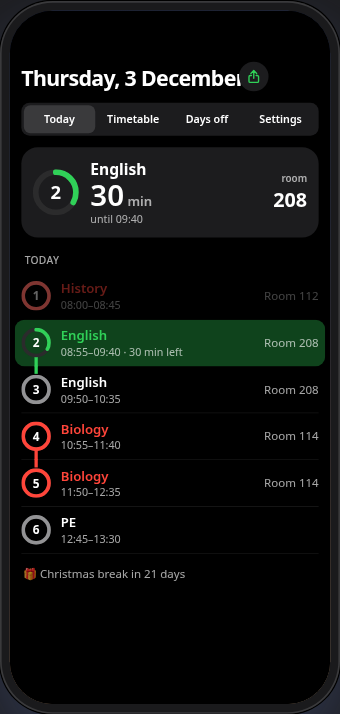
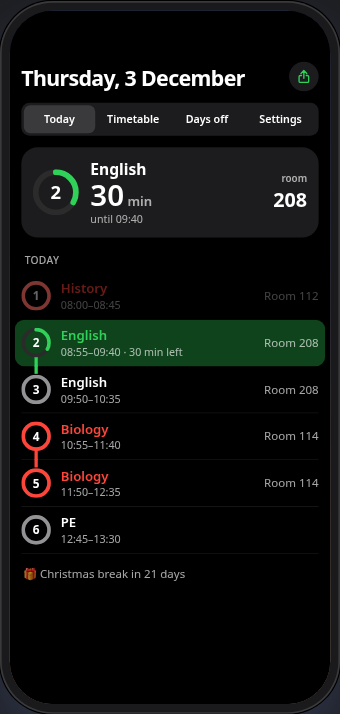
Landing page: the menu demo's date no longer runs under the share button (the page's h2 width limit)

Changed region(s): [[0.8529, 0.0616, 0.9412, 0.1541], [0.7059, 0.0616, 0.7941, 0.1541]]

diff --git a/landing/widgets.css b/landing/widgets.css
@@ -42,7 +42,8 @@
   font: 15px -apple-system, "SF Pro Text", system-ui, sans-serif; -webkit-font-smoothing: antialiased; }
 .mw[data-mode="light"] { --bg: #f2f2f7; --fg: #000; --dim: rgba(60,60,67,.62); --card: #fff; --seg: #e5e5ea; --line: rgba(0,0,0,.08); --red: #ff3b30; --track: rgba(0,0,0,.09); --btn: #e5e5ea; }
 .mw *, .mw { box-sizing: border-box; }
-.mhead { display: flex; align-items: center; gap: 12px; } .mtitle { flex: 1; min-width: 0; font-size: 26px; margin: 4px 0 0; font-weight: 700; white-space: nowrap; }
+.mhead { display: flex; align-items: center; gap: 12px; }
+.mtitle { flex: 1; min-width: 0; max-width: none; font-size: 26px; margin: 4px 0 0; font-weight: 700; white-space: nowrap; }
 .mshr { flex: none; width: 36px; height: 36px; border-radius: 18px; background: var(--card); color: #30d158; display: flex; align-items: center; justify-content: center; }
 .mw[data-mode="light"] .mshr { background: #e5e5ea; color: #248a3d; }
 .mtabs { display: flex; gap: 3px; background: var(--card); border-radius: 10px; padding: 3px; margin: 14px 0; }
